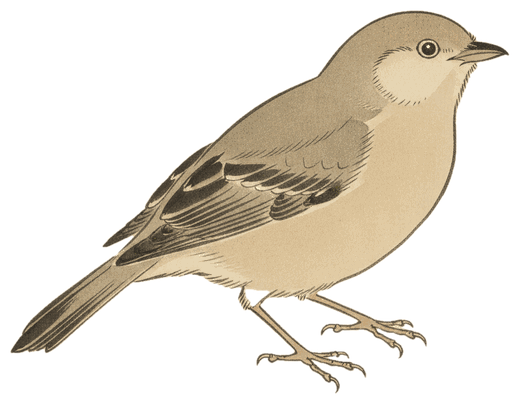
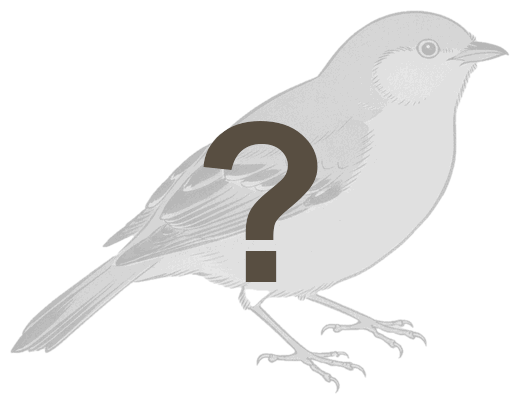
Merel flight eye-ring + greyed-out '?' placeholder (r16)
Flight Merel: repaint the chrome yellow-orange eye-ring (the female->male recolour had left a plain black eye).

Placeholder: greyed-out, faded bird with a bold '?' overlay so it clearly reads as a placeholder, not a real species.

diff --git a/avian/frontend/apt.js b/avian/frontend/apt.js
@@ -2,7 +2,7 @@
   var PLACEHOLDER = [{"sci":"Calypte anna","com":"Anna's Hummingbird","featured":true},{"sci":"Passer domesticus","com":"House Sparrow"},{"sci":"Haemorhous mexicanus","com":"House Finch"},{"sci":"Turdus migratorius","com":"American Robin"},{"sci":"Zenaida macroura","com":"Mourning Dove"},{"sci":"Spinus psaltria","com":"Lesser Goldfinch"},{"sci":"Zonotrichia leucophrys","com":"White-crowned Sparrow"},{"sci":"Aphelocoma californica","com":"California Scrub-Jay"},{"sci":"Mimus polyglottos","com":"Northern Mockingbird"},{"sci":"Sayornis nigricans","com":"Black Phoebe"},{"sci":"Larus occidentalis","com":"Western Gull"},{"sci":"Corvus brachyrhynchos","com":"American Crow"}];
   // Bumped whenever the offline sketch build changes, so the browser
   // doesn't keep a stale cache after we regenerate the sketches.
-  var SKETCH_VERSION = 'r15'; // re-cut 68 birds to drain leg-gaps (width-gate +
+  var SKETCH_VERSION = 'r16'; // re-cut 68 birds to drain leg-gaps (width-gate +
                               // erosion); 17 hand-touched. Library 467 species.
   // Cache-bust for /api/img - bump whenever a bird gets re-rendered via
   // /api/regen or whenever you need every CF DC to drop its cached copy.
@@ -10,7 +10,7 @@
   // equivalent to a global cache purge for /api/img. (caches.default
   // .delete() in the worker only affects ONE colo at a time, so a
   // versioned URL is the only reliable way to invalidate everywhere.)
-  var IMG_VERSION = 'r15'; // r15: Merel eye recolor + female->male flight recolor.
+  var IMG_VERSION = 'r16'; // r16: Merel flight eye-ring + greyed '?' placeholder.
 
   // ---- Sliding pill helper ----
   // Each segmented control has a single .seg-pill element that we move via
